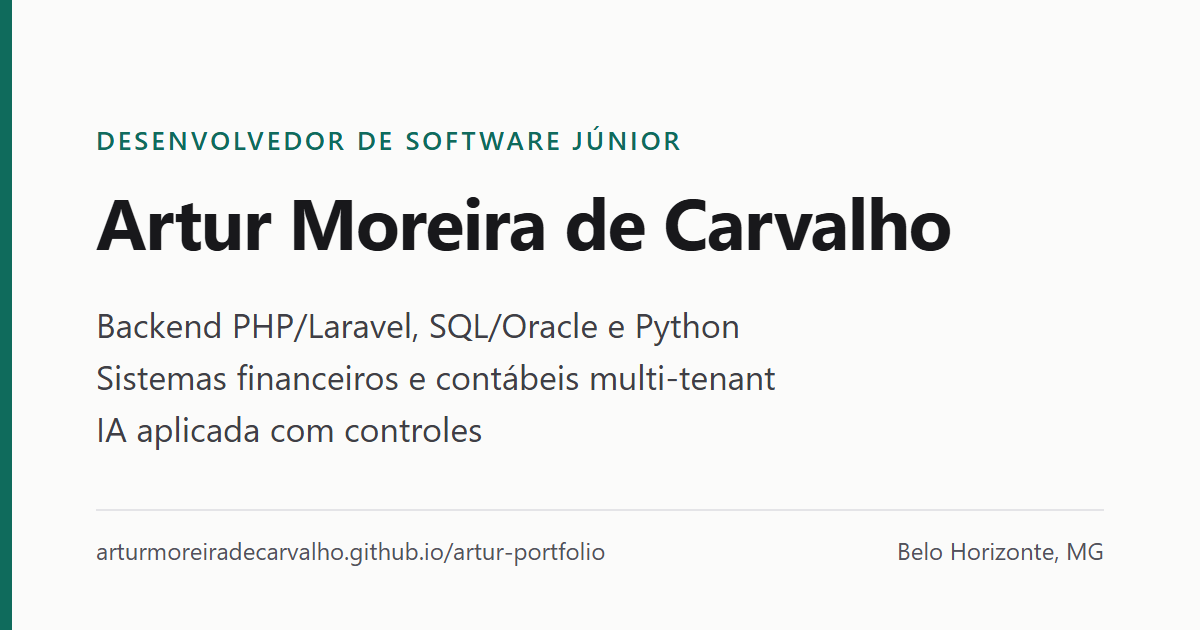
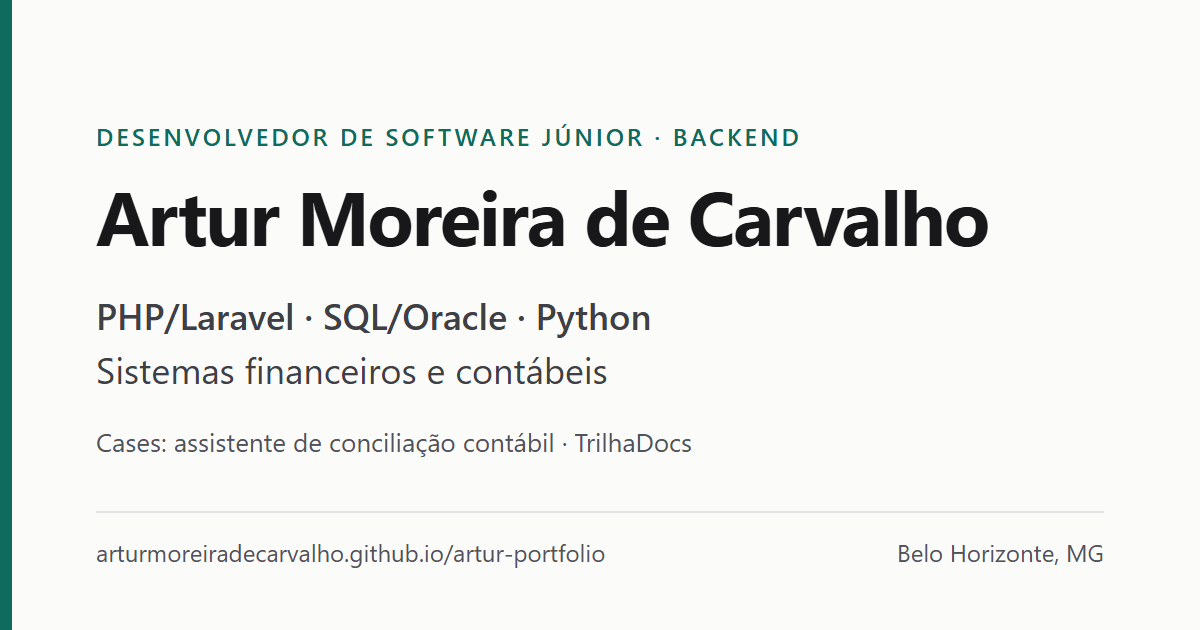
feat: add sitemap, robots, 404 page and per-language social images

diff --git a/404.html b/404.html
@@ -1,0 +1,22 @@
+<!doctype html>
+<html lang="pt-BR">
+<head>
+  <meta charset="utf-8" />
+  <meta name="viewport" content="width=device-width, initial-scale=1" />
+  <title>Página não encontrada | Artur Moreira de Carvalho</title>
+  <meta name="robots" content="noindex" />
+  <link rel="icon" href="/artur-portfolio/assets/favicon.svg" type="image/svg+xml" />
+  <link rel="stylesheet" href="/artur-portfolio/styles.css" />
+</head>
+<body>
+  <main id="conteudo" class="hero container">
+    <p class="eyebrow">Erro 404 · Not found</p>
+    <h1>Página não encontrada</h1>
+    <p class="lead">O endereço pode ter mudado. <span lang="en">This page may have moved.</span></p>
+    <div class="actions">
+      <a class="button primary" href="/artur-portfolio/">Ir para o portfólio</a>
+      <a class="button" href="/artur-portfolio/en/" hreflang="en" lang="en">English version</a>
+    </div>
+  </main>
+</body>
+</html>
